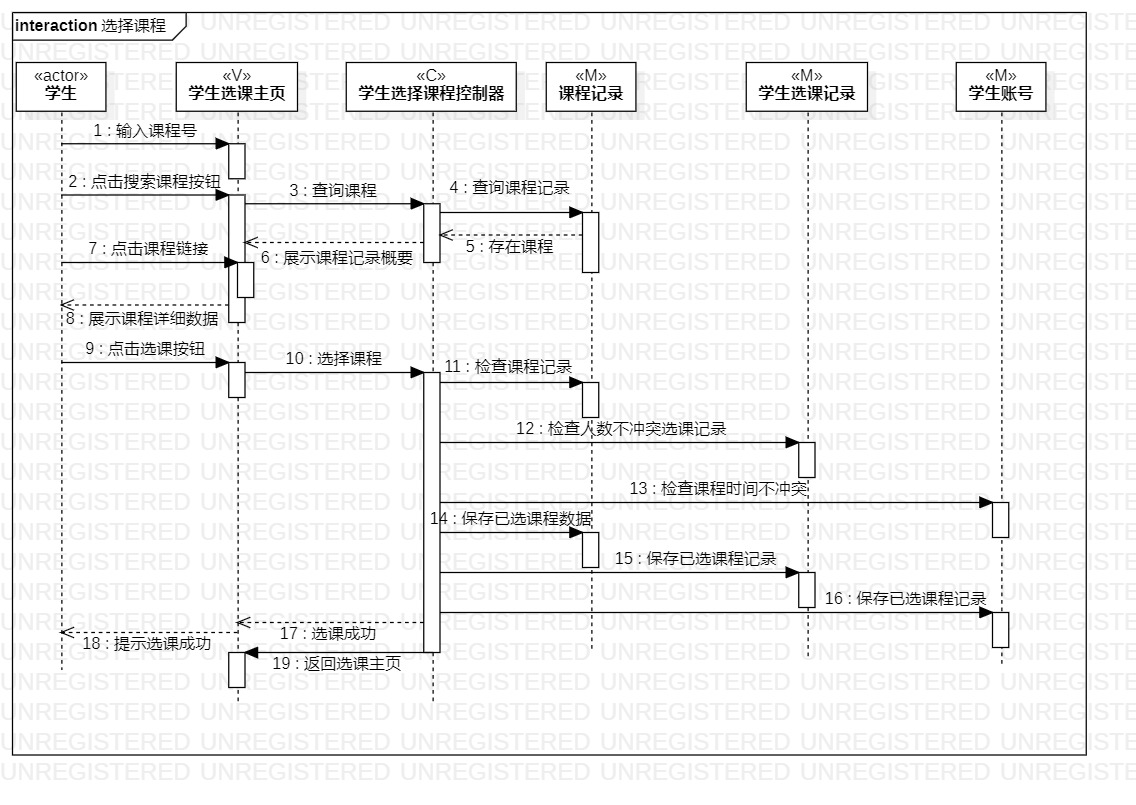
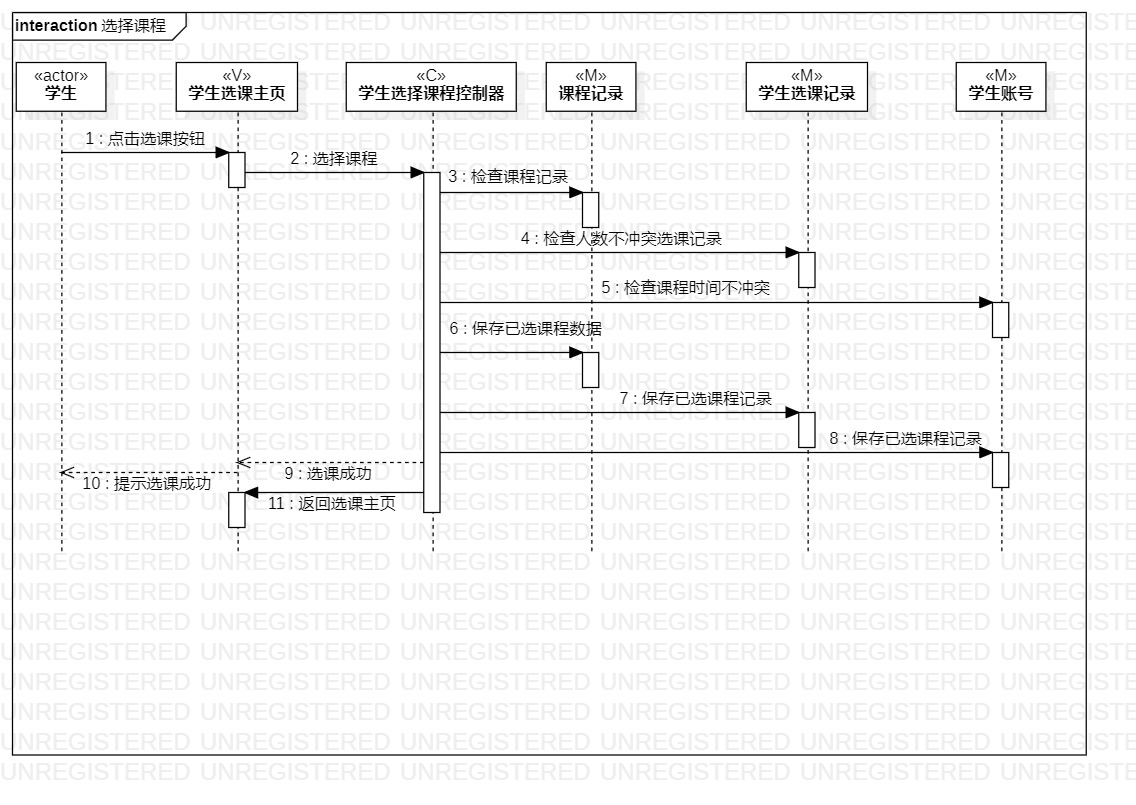
修改用例图、修改顺序图

diff --git a/students/1714080902621/lab3.md b/students/1714080902621/lab3.md
@@ -24,10 +24,8 @@
 - 2.选择课程
 	- 从实验2用例图提炼出步骤操作 
     - 添加开始和结束结点
-    - 添加输入课程号、点击搜索课程按钮，查询课程信息这3个主要动作
-    - 查询课程信息时判断是否存在匹配课程，进行分支；存在则进行下一步 *，不存在则提示“课程不存在，重新检索”，在分支汇聚点汇聚后，返回选课主页，结束流程
-    - 在*（表示存在匹配课程）的分支中，添加显示课程信息链接、查看信息、点击选课检查学生已选课程这3个顺序流动作，
-    - 检查学习已选课程动作中如果存在时间冲突，提示“课程时间冲突，无法选课”，在分支汇聚节点汇聚后，返回选课主页，结束流程。
+    - 学生点击选课按钮，检查学生已选课程
+    - 检查学生已选课程动作中如果存在时间冲突，提示“课程时间冲突，无法选课”，在分支汇聚节点汇聚后，返回选课主页，结束流程。
     - 检查学习已选课程动作中不存在时间冲突则继续下一个动作，检查选课人数。
     - 检查选课人数会出现两个分支，人数超过上限会有提示“课程人数超过上限，无法选课”的动作，在分支汇聚节点汇聚后，返回选课主页，结束流程
     - 人数不超过上限会继续，保存课程信息、提示选课成功的动作，最后在分支汇聚节点汇聚后，返回选课主页，结束流程
